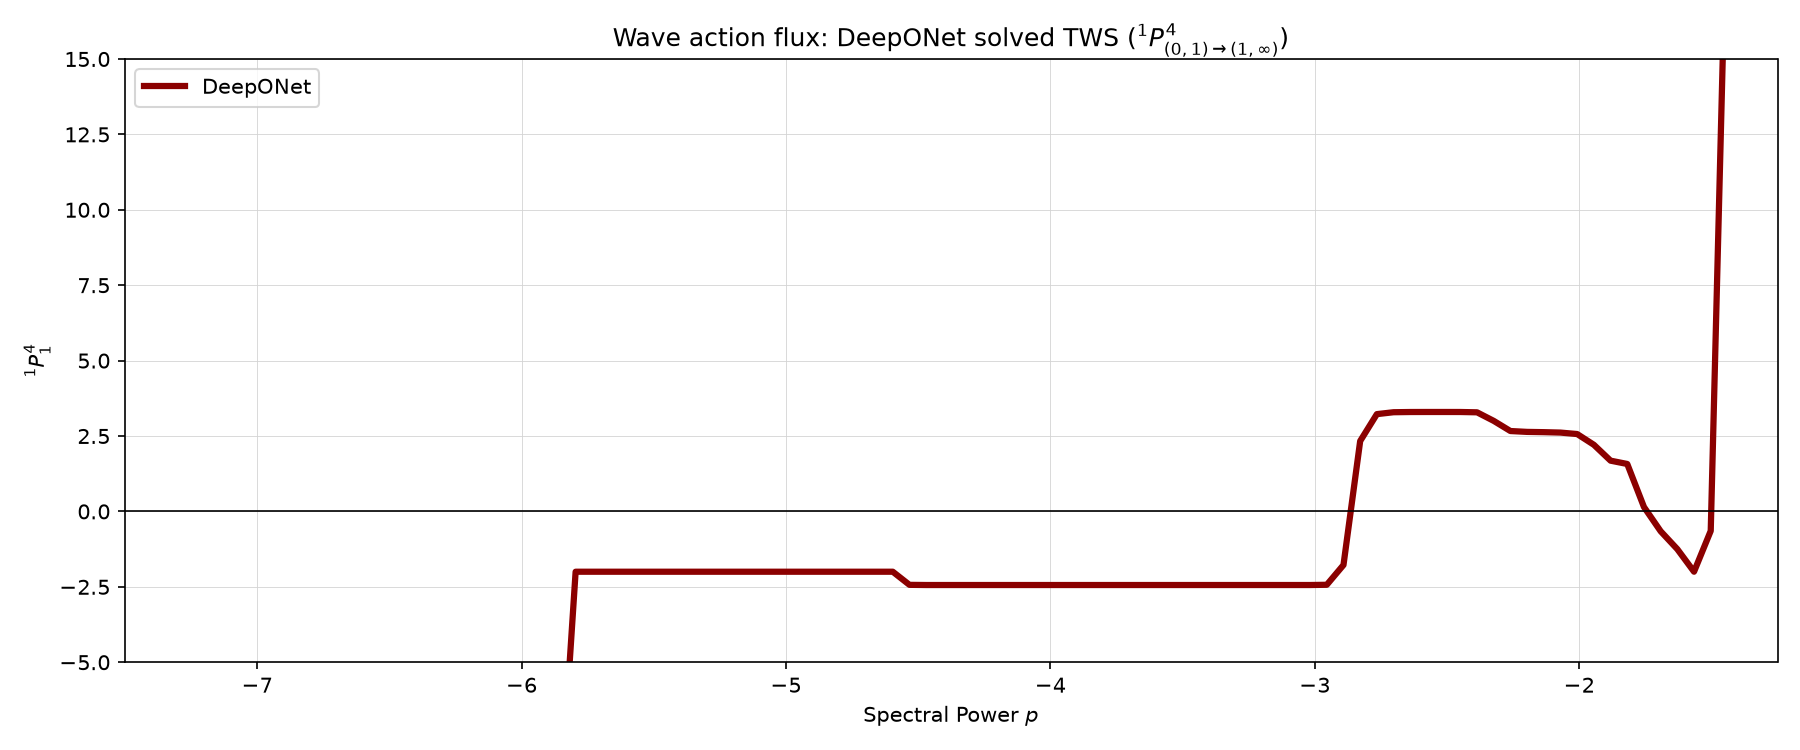
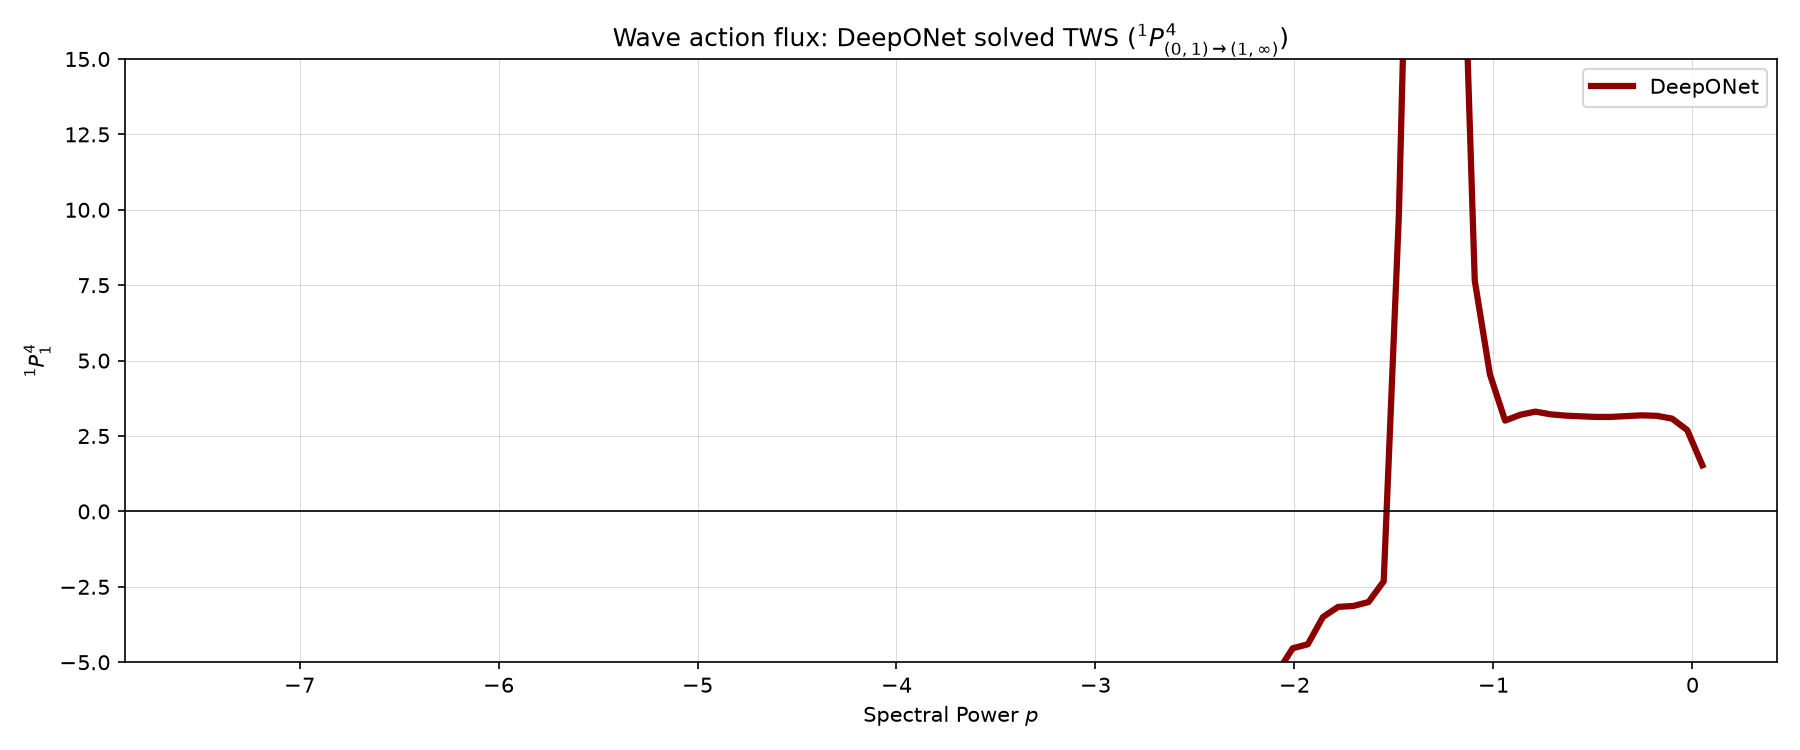
refactor: update training parameters and adjust plot limits for improved model performance and visualization

diff --git a/main_TWS.py b/main_TWS.py
@@ -16,7 +16,7 @@ model.load_state_dict(torch.load("weights/deeponet_weights_mmt.pt"))
 model, history = train_deeponet_TWS(
     model, epochs=6000, lr=1e-3,
     sensor_grid=sensor_grid, A=1.0, k_c_min=0.1, k_c_max=1.0, alpha = 1.5,
-    d = 2.0, beta=9/4, n_bc_points=1000, rng = rng, lambda1 = 1, lambda2 = 10, lambda3 = 50, lambda4 = 100
+    d = 2.0, beta=9/4, n_bc_points=1000, rng = rng, lambda1 = 1, lambda2 = 1, lambda3 = 1, lambda4 = 1
 )
 model.eval()
 #torch.save(model.state_dict(), "weights/deeponet_weights_TWS.pt")
@@ -24,7 +24,7 @@ model.eval()
 plot_deeponet_loss(history, save_path="outputs_TWS/deeponet_loss_TWS.png", show=False)
 
 plot_flux_vs_p_TWS(
-    model, ps=np.linspace(-7.5, -1.25, 100), A=1.0, beta=-0.25, 
+    model, ps=np.linspace(-7.5, 0.05, 100), A=1.0, beta=-0.25, 
     k_min=config.K_MIN, sensor_grid=sensor_grid, k_c = 1,
     save_path="outputs_TWS/flux_vs_p_TWS.png", show=False
 )

diff --git a/src/training/train_deeponet_TWS.py b/src/training/train_deeponet_TWS.py
@@ -127,7 +127,7 @@ def plot_flux_vs_p_TWS(model, ps, A, beta, k_min, sensor_grid, k_c,
     plt.xlabel(r"Spectral Power $p$")
     plt.ylabel(r"$^1 P^4_1$")
     plt.ylim(-5, 15)
-    plt.xlim(-7.5, -1.25)
+    #plt.xlim(-7.5, 1.25)
     plt.title(r"Wave action flux: DeepONet solved TWS ($^1 P^4_{(0, 1) \rightarrow (1, \infty)}$)")
     plt.legend()
     plt.tight_layout()
